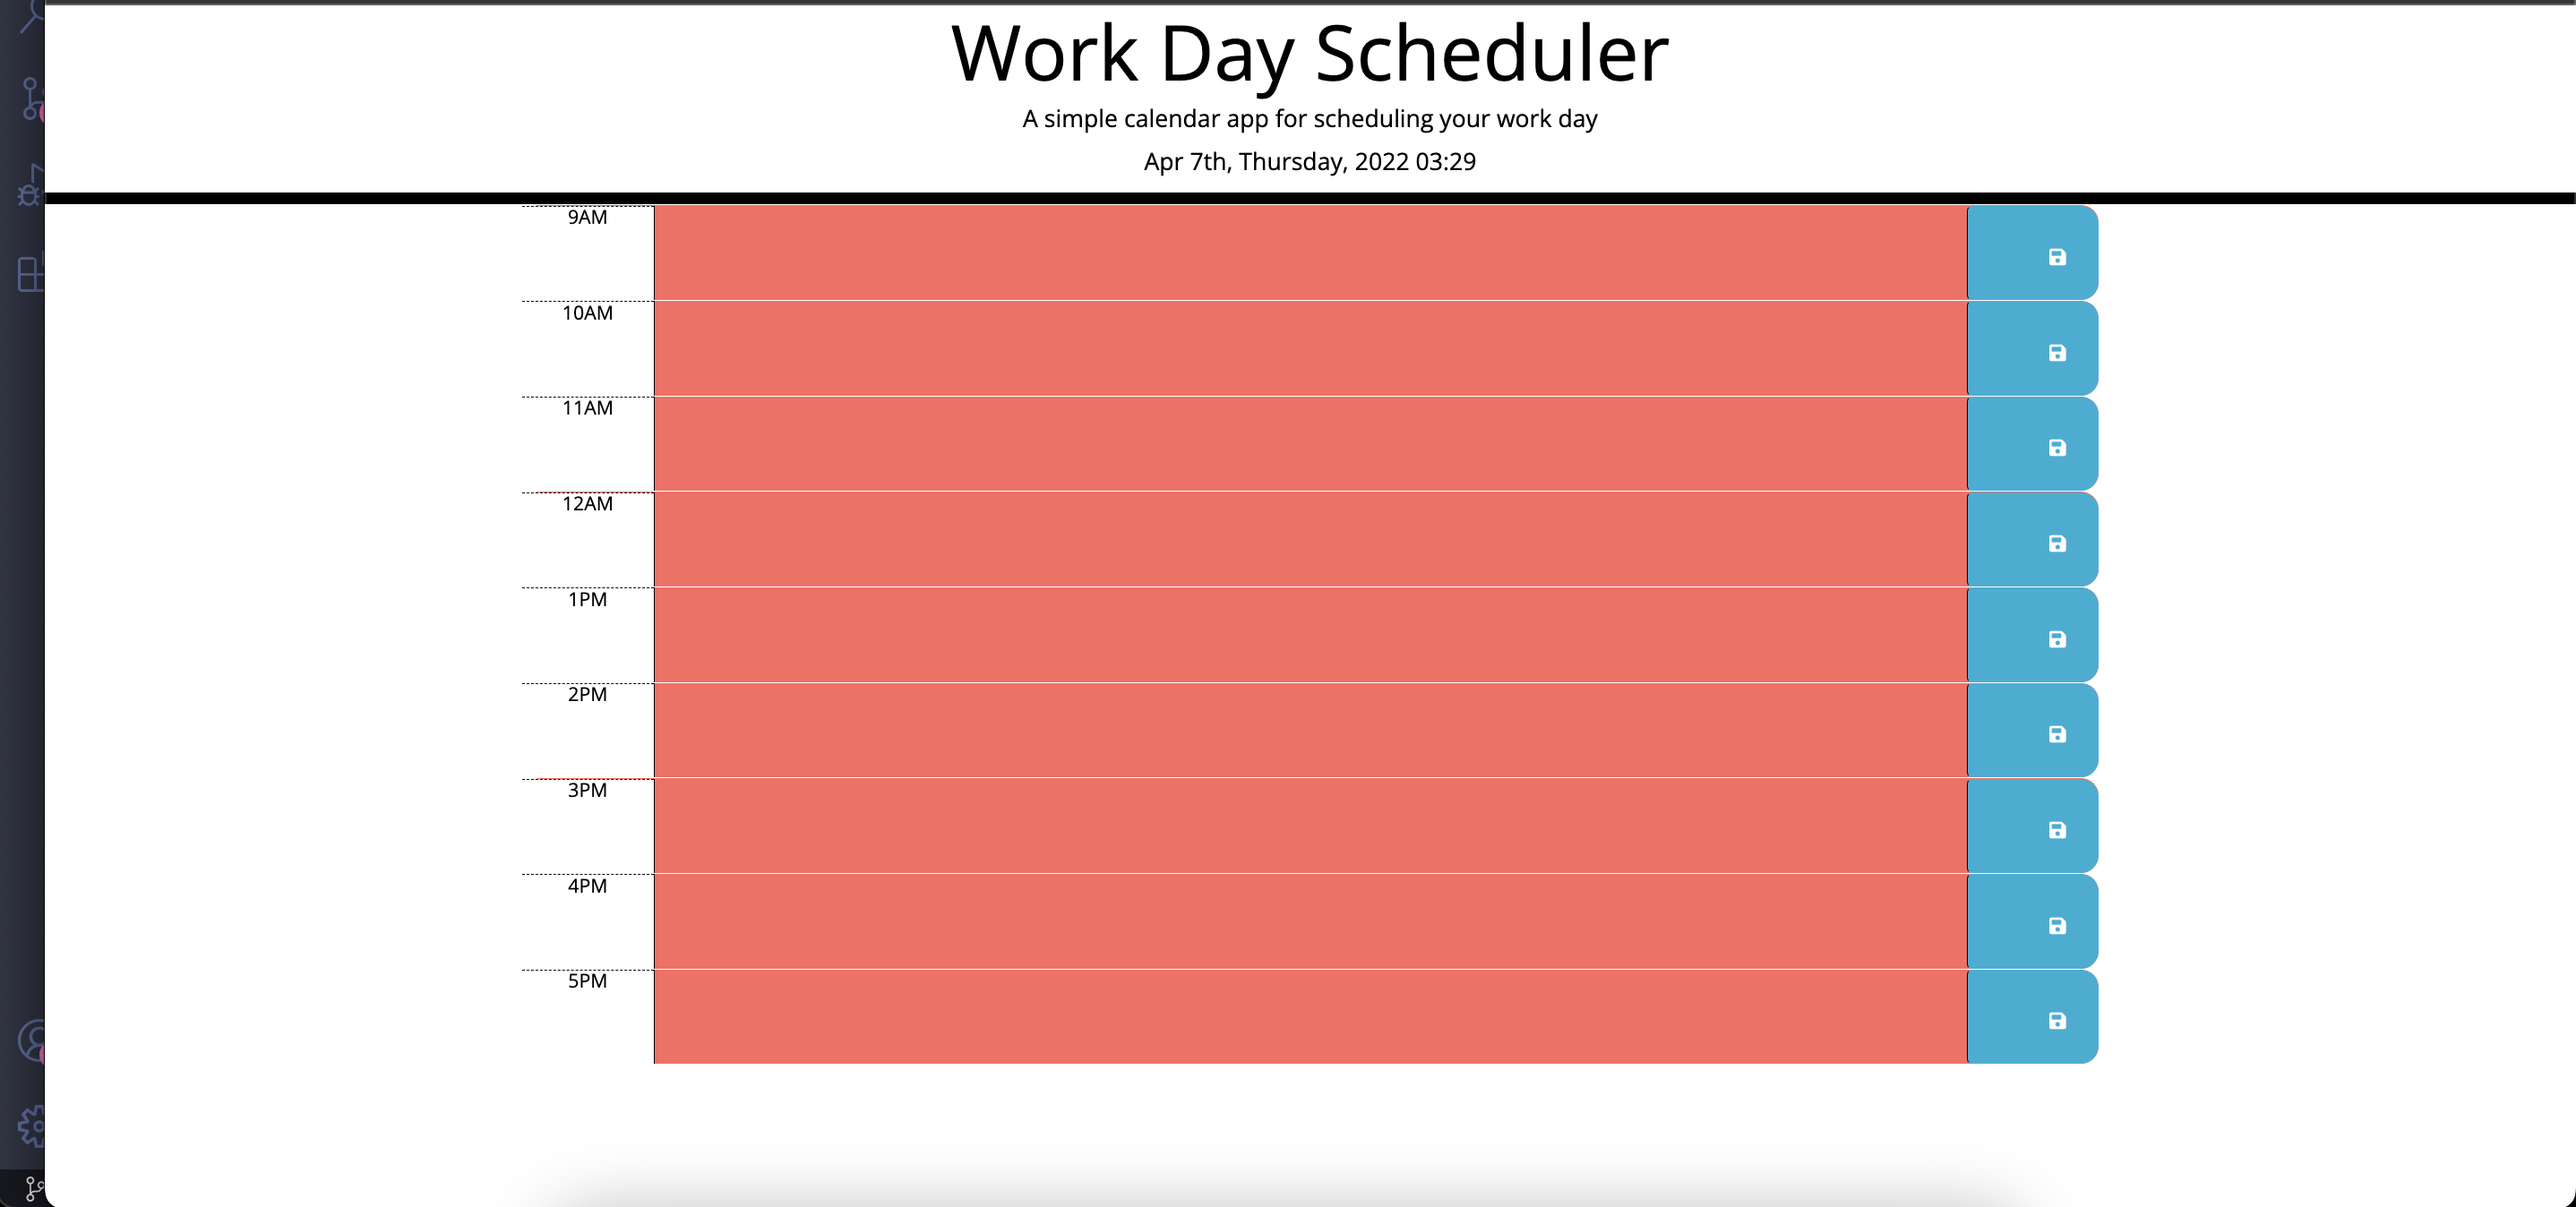
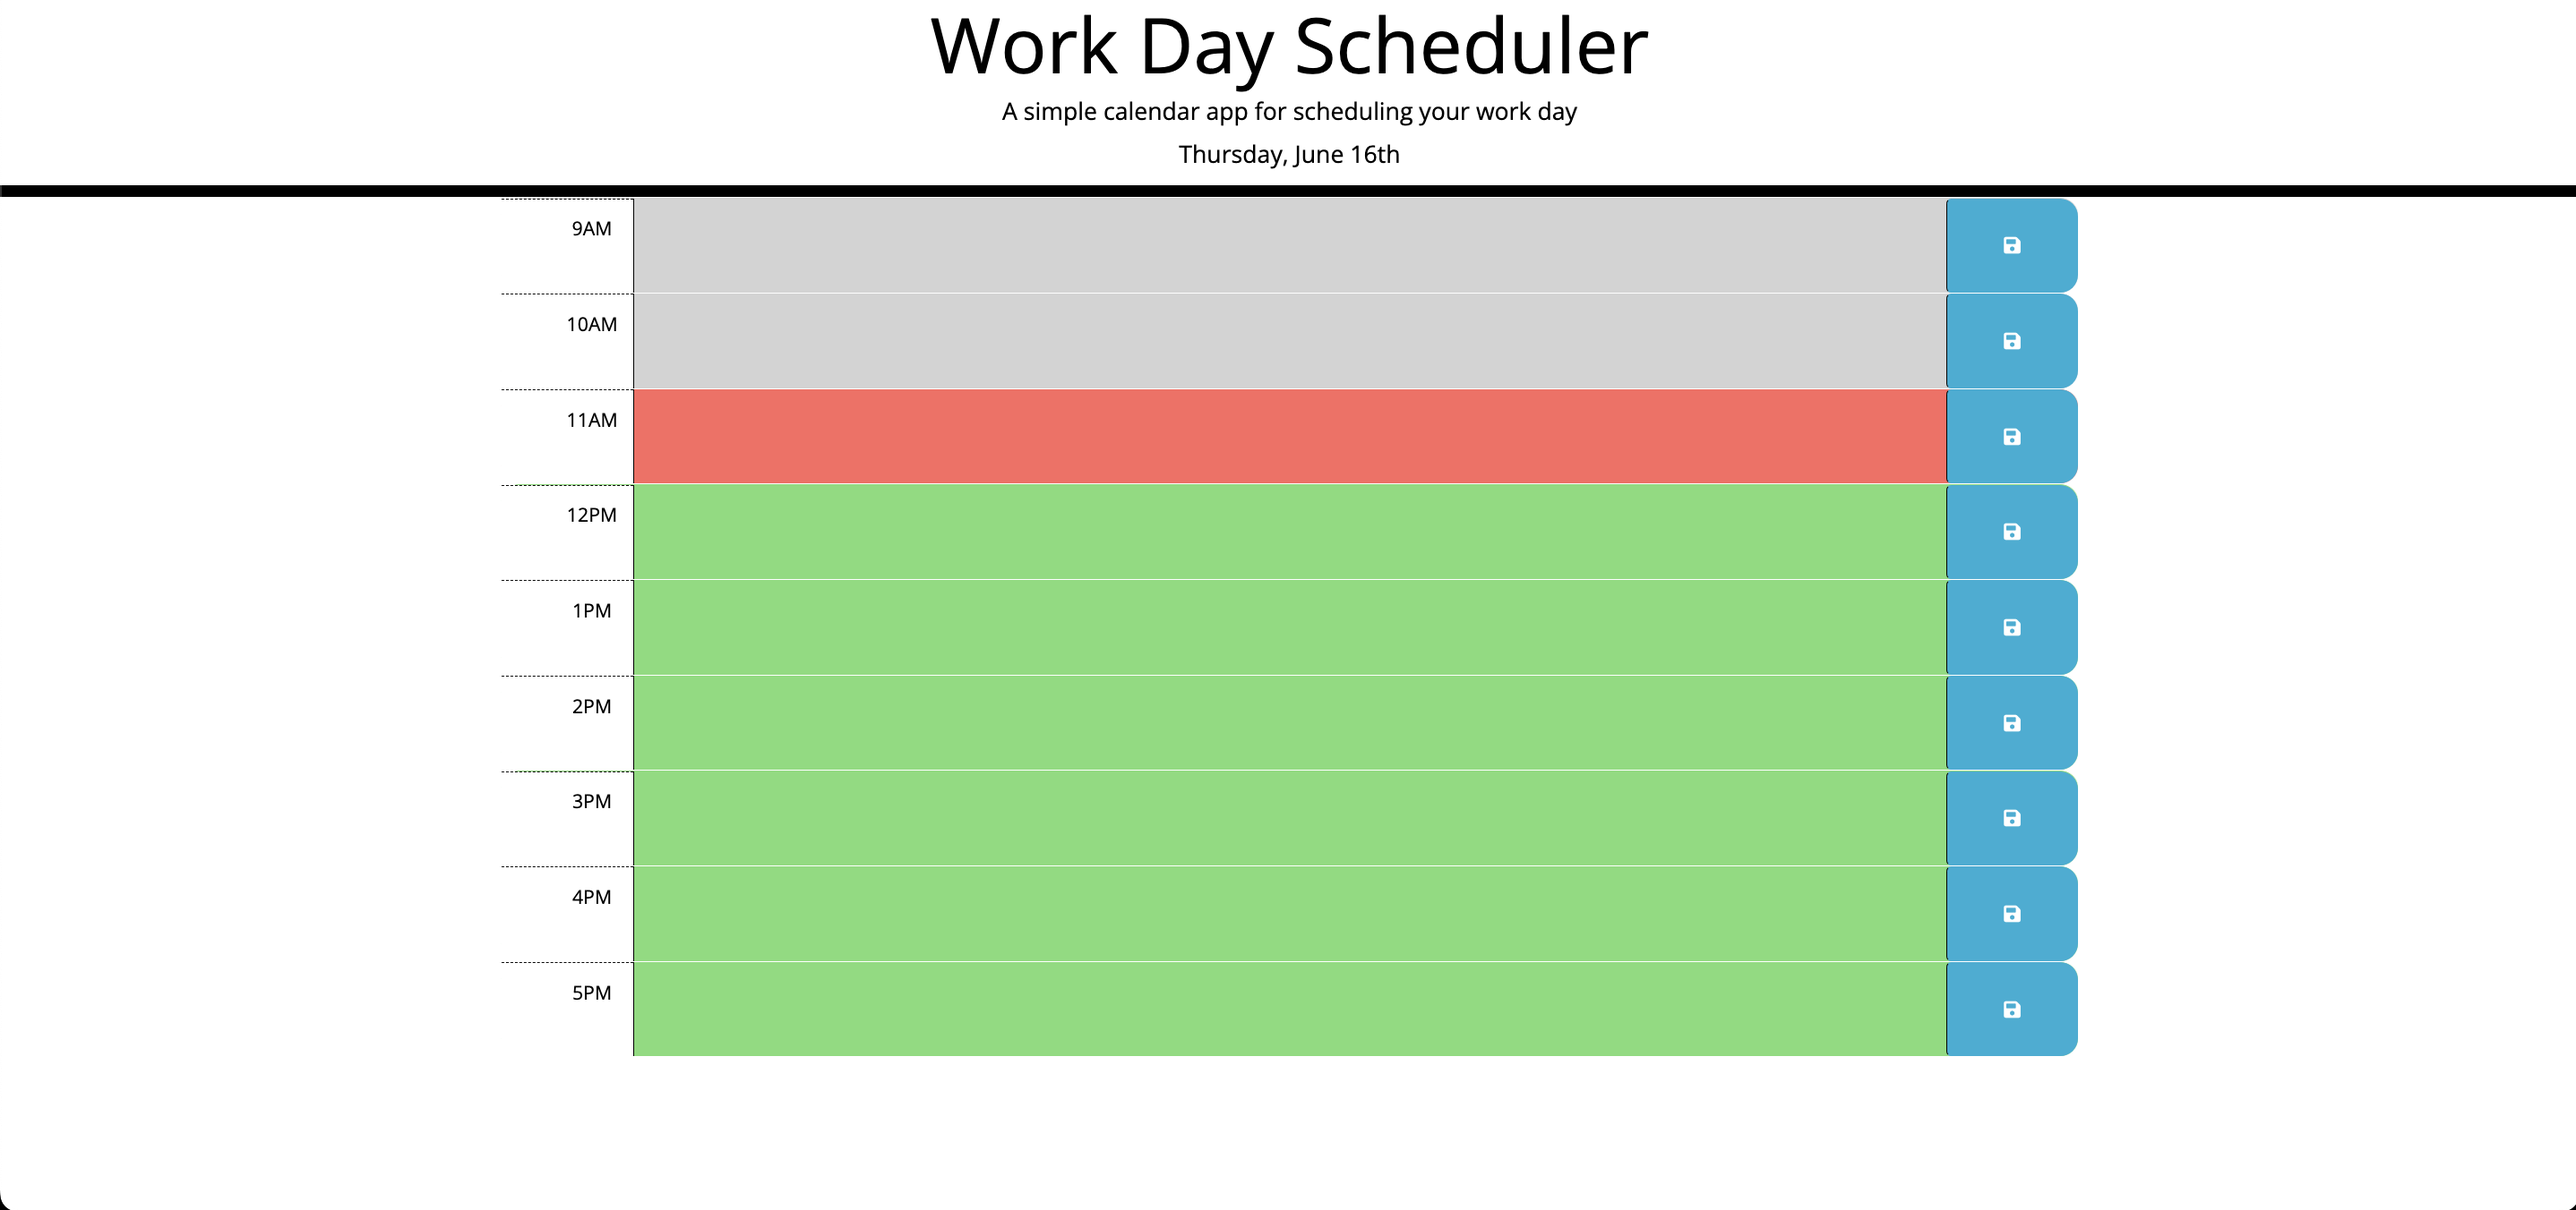
updated readme

diff --git a/README.md b/README.md
@@ -1,6 +1,16 @@
-# key_to_a_great_day
+# Key To a Great Day
 
-My motivation for this project was to create an awesome calander. My motivation for this was to make something to help me keep track of my homework assignments. I learned how to use momment.js and all of its cool abilities. Please see attached picture of my webpage.
+## Description
+
+My motivation for this project was to create a calander that would keep my notes in local storage so I can see them even if I leave the page. My motivation for this was to make something to help me keep track of my homework assignments and other notes while attending school. The time blocks are color coded with grey meaning that it has went past that hour, red meaning that it is the current hour, and green meaning that hour has yet to come.
+
+## Contributing
+
+If you would like to contribute please fork the repo and submit a pull request.
+
+## Questions
+
+If you have any questions please contact me through Github my username is jessemarino.
 
 ![picture of website](./assets/images/calander.png))
 
